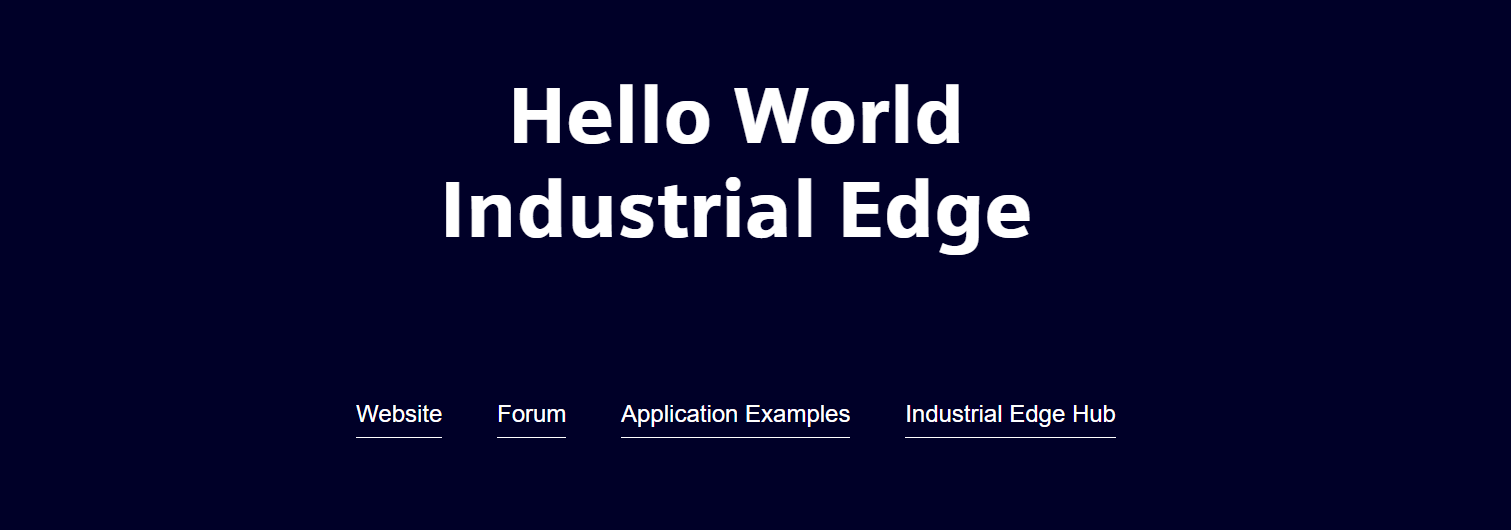
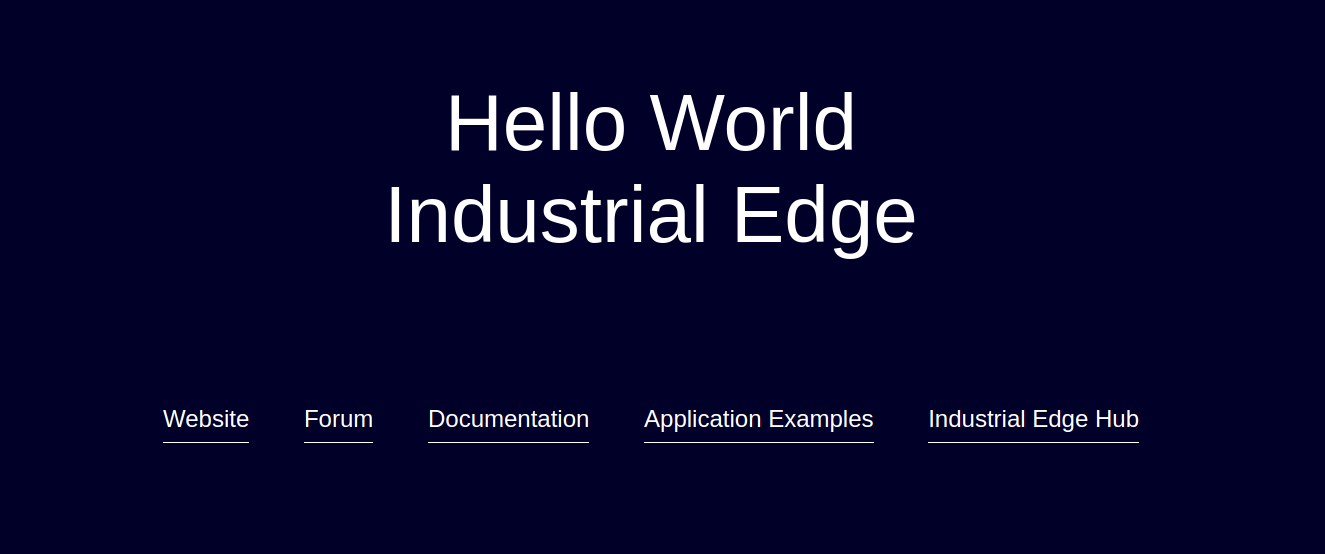
add docs page and mendix forum (#10)

diff --git a/src/html/index.html b/src/html/index.html
@@ -24,7 +24,8 @@
     </div>
     <div class="links">
         <a class="link" target="_blank" href="https://www.siemens.com/industrial-edge">Website</a>
-        <a class="link" target="_blank" href="https://www.siemens.com/industrial-edge-forum">Forum</a>
+        <a class="link" target="_blank" href="https://forum.mendix.com/link/space/industrial-edge">Forum</a>
+        <a class="link" target="_blank" href="https://docs.eu1.edge.siemens.cloud">Documentation</a>
         <a class="link" target="_blank" href="https://github.com/industrial-edge">Application Examples</a>
         <a class="link" target="_blank" href="https://iehub.eu1.edge.siemens.cloud/">Industrial Edge Hub</a>
     </div>
